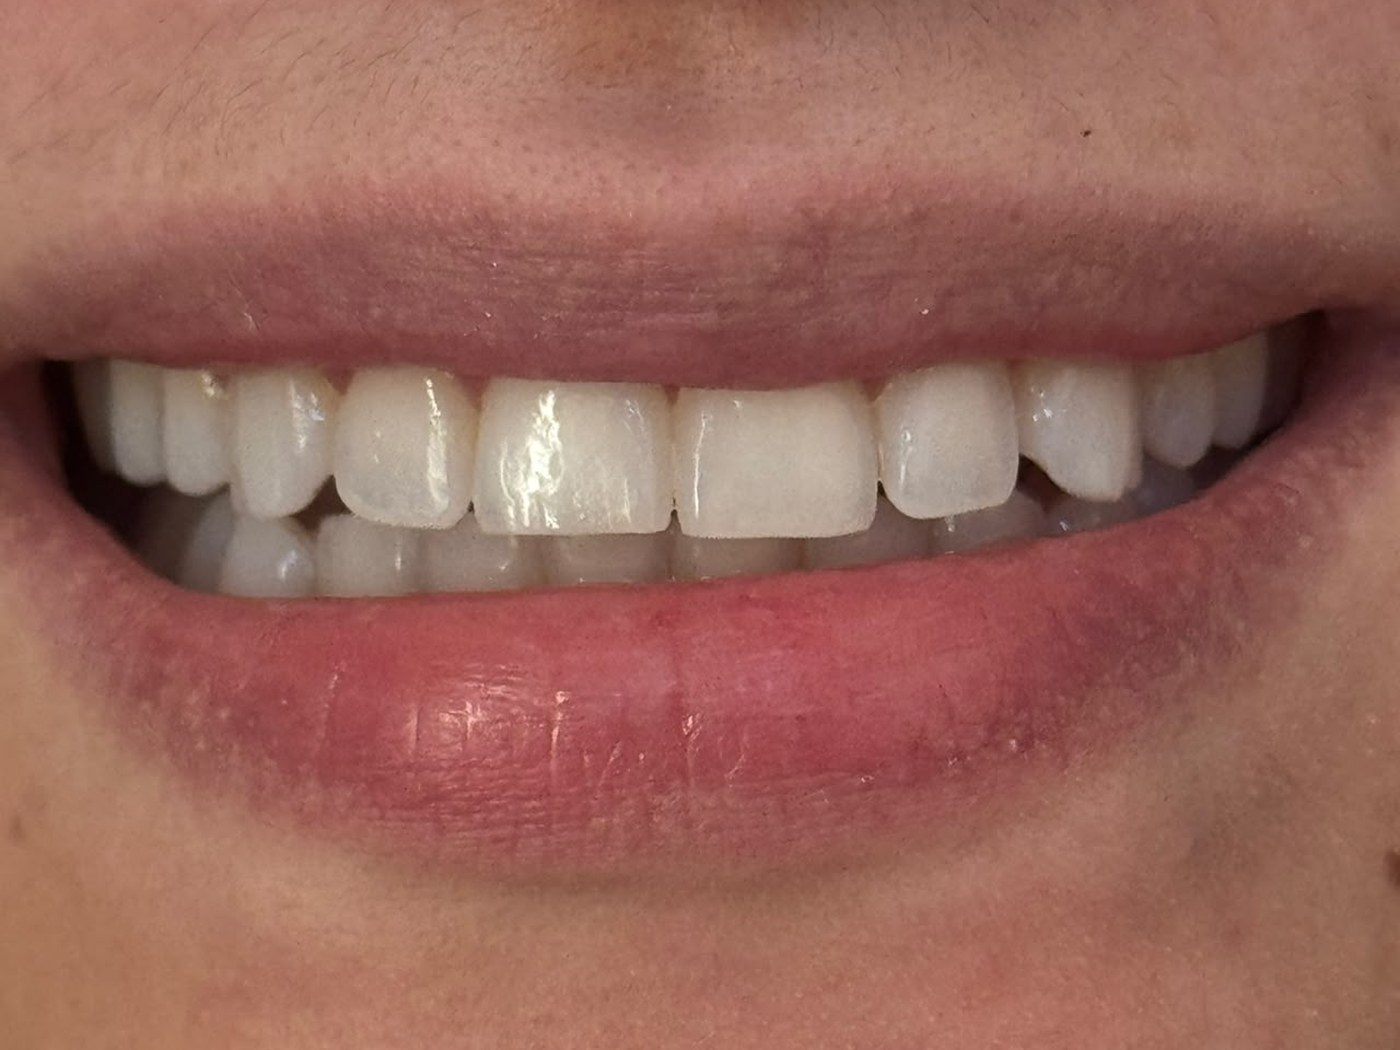
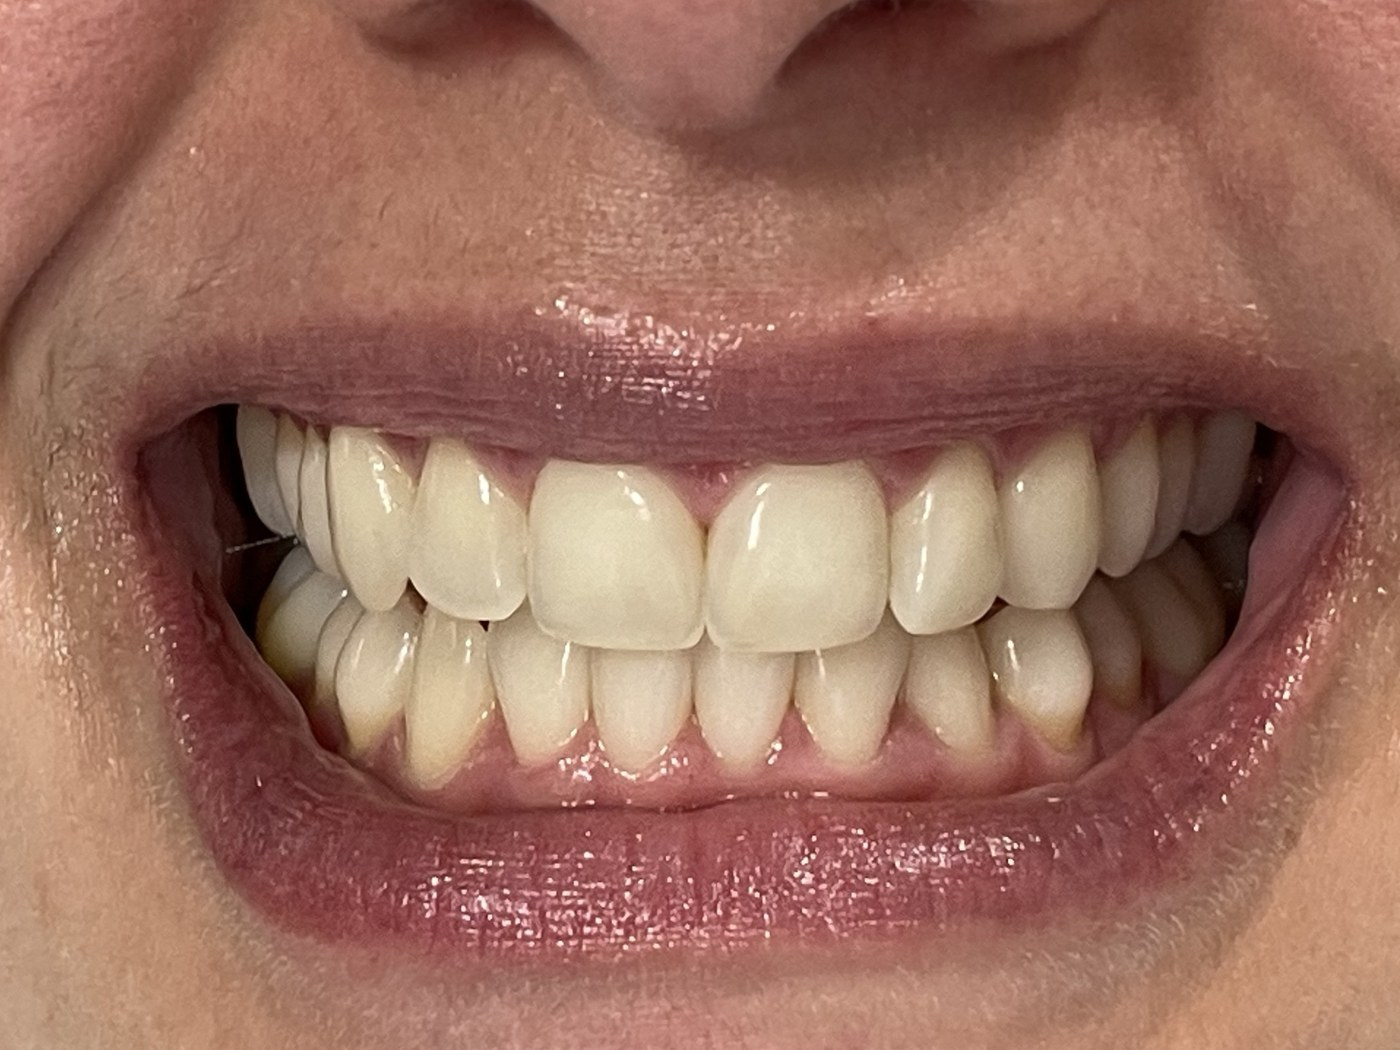
Corrige troca das fotos de antes (Bruxismo/Protetor) e remove Estetica Dental & Lentes de Porcelana da lista de servicos da home
- Troca as fotos de antes de Placa de Bruxismo e Protetor Esportivo, que estavam invertidas
- Remove o card de Estetica Dental & Lentes de Porcelana (sem foto) da lista de servicos da home

diff --git a/assets/js/main.js b/assets/js/main.js
@@ -183,7 +183,7 @@
       title: "Estética Dental & Lentes de Porcelana",
       desc: "Harmonização do sorriso com laminados cerâmicos e restaurações de altíssima durabilidade.",
       cat: "estetica",
-      home: true
+      home: false
     },
     {
       id: "bruxismo",
